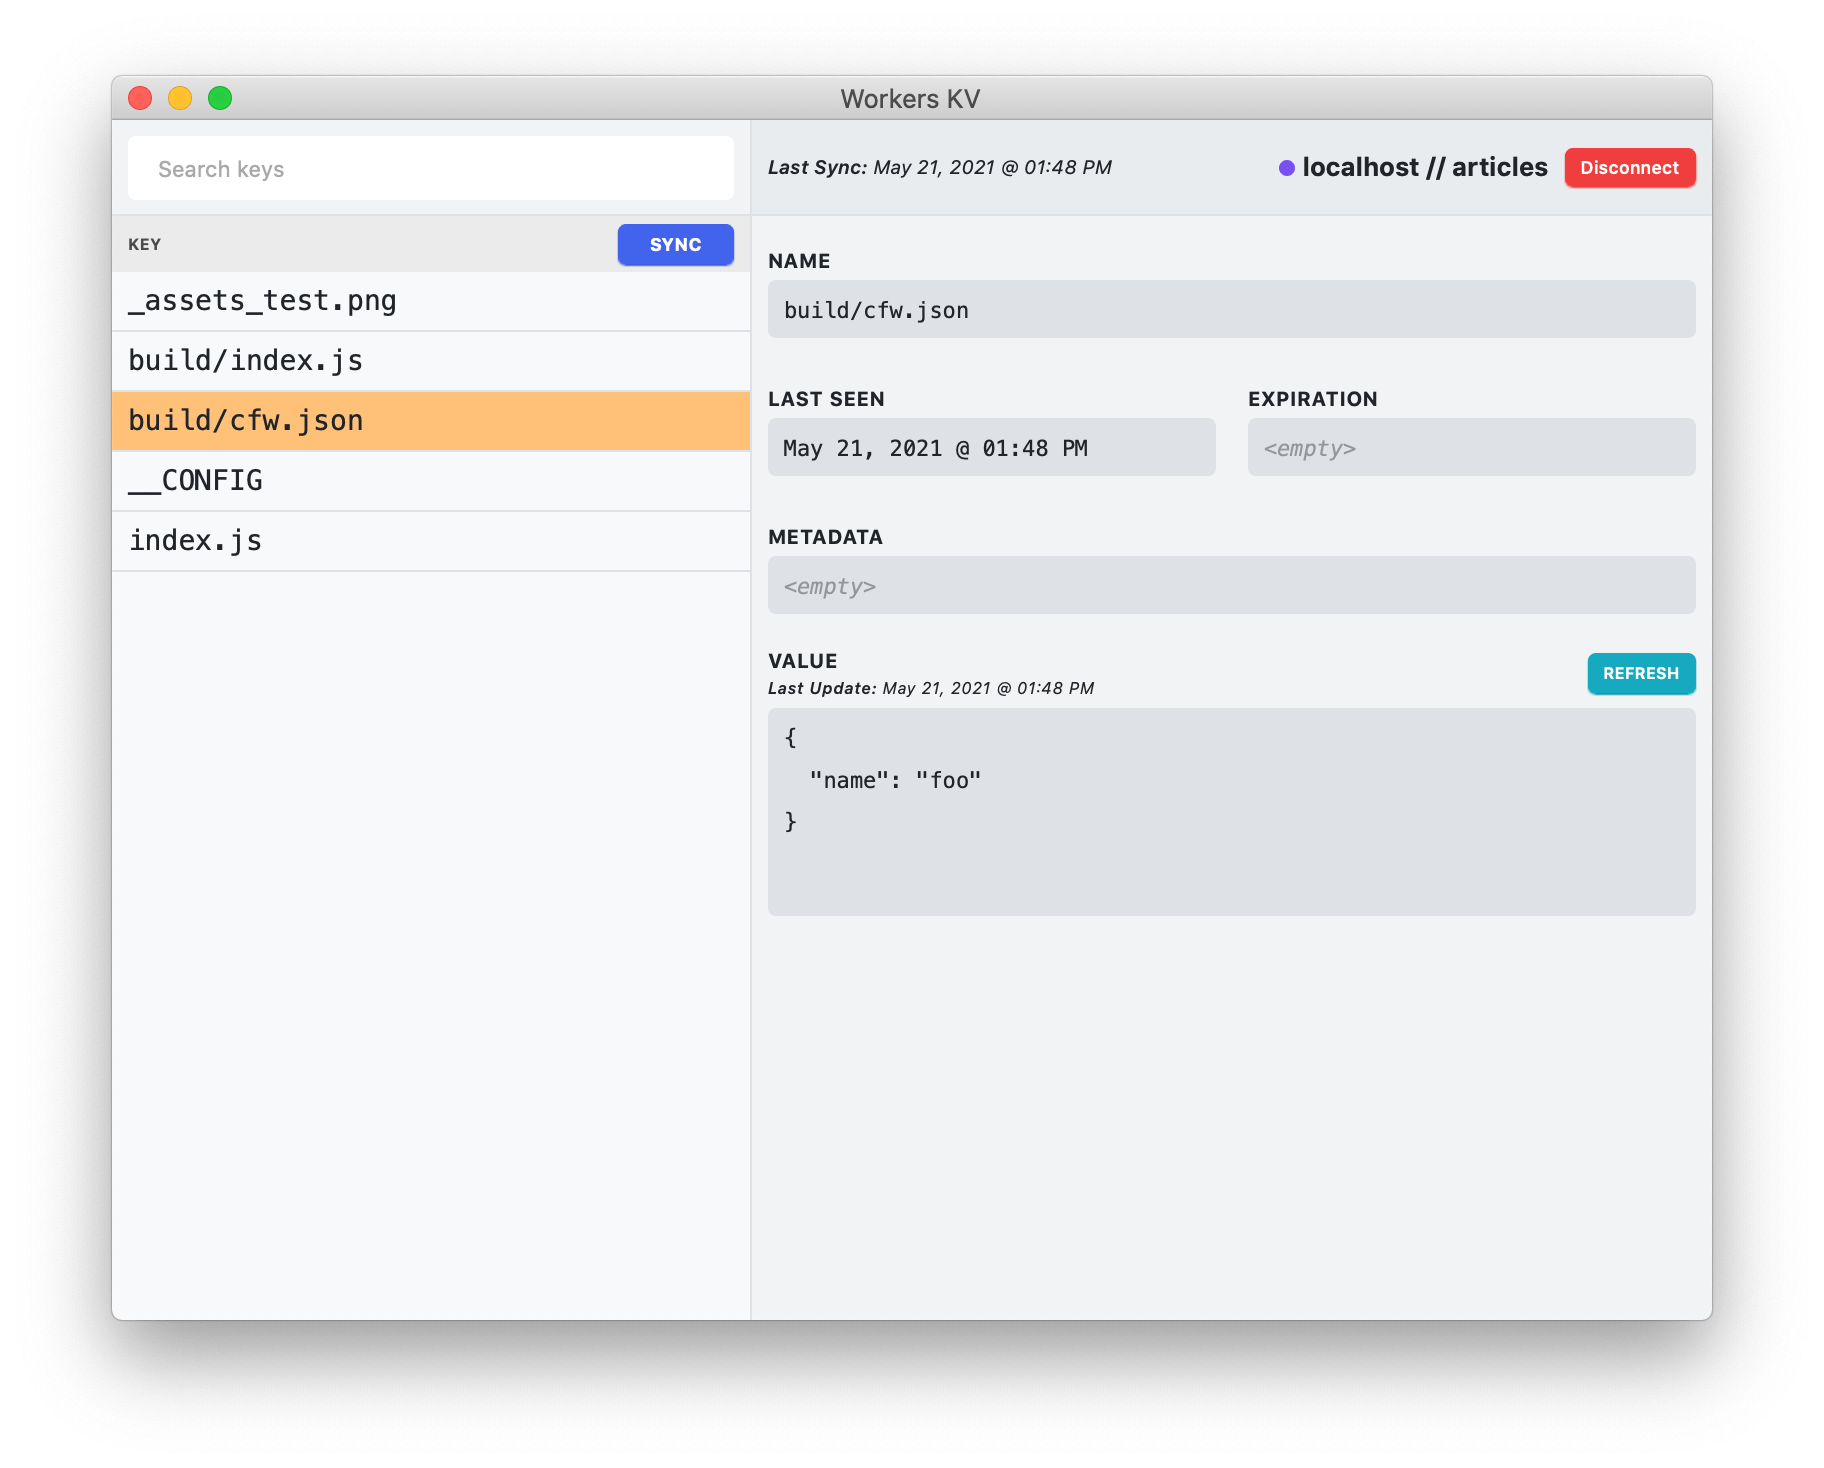
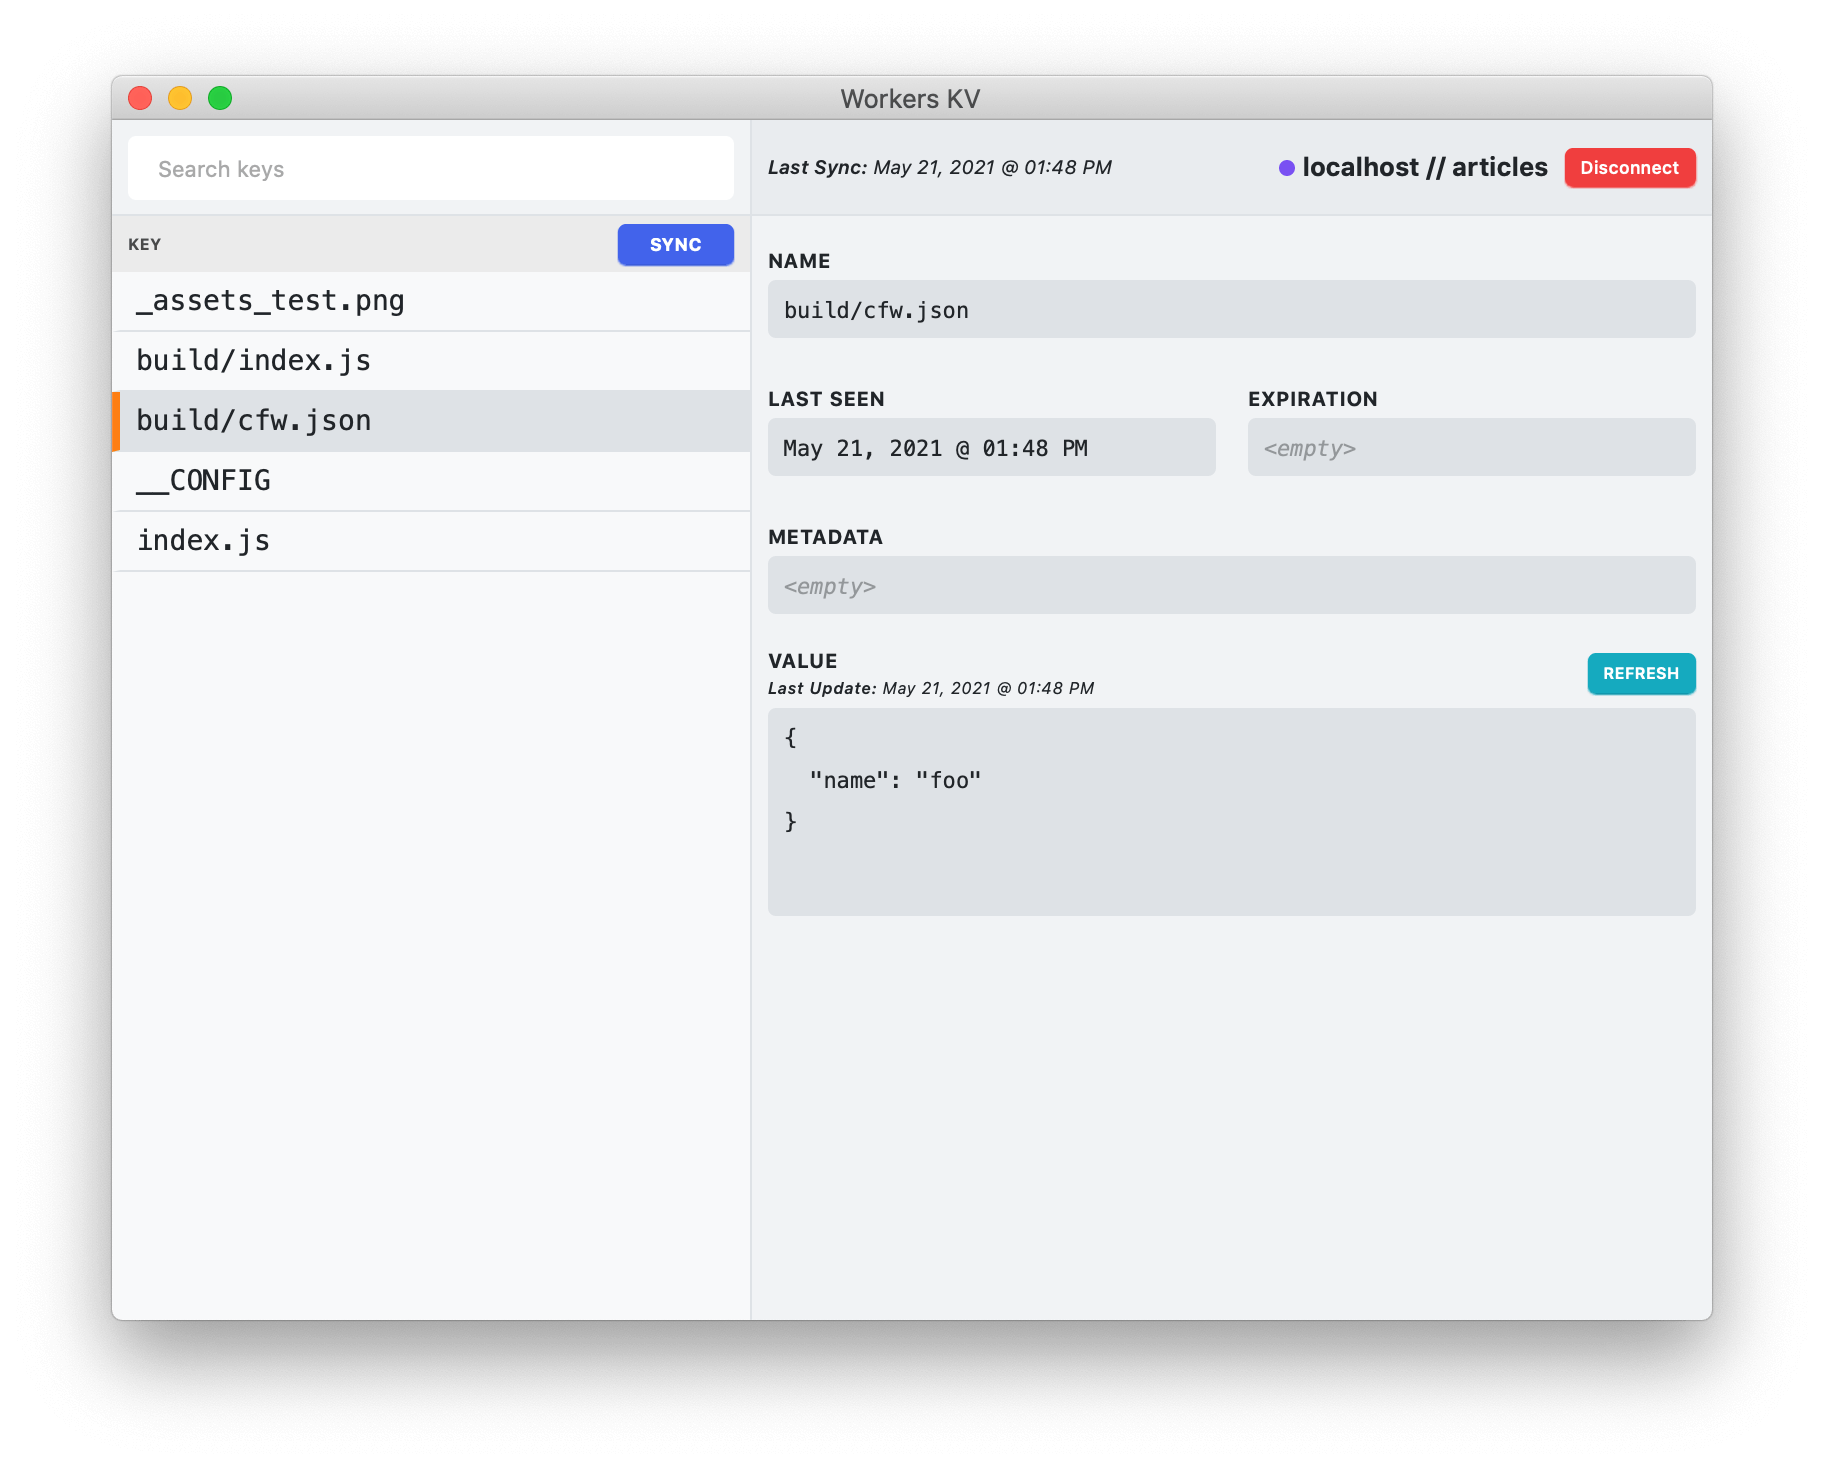
chore: change selected-key styles

Changed region(s): [[0.0625, 0.1839, 0.4375, 0.3372], [0.0938, 0.3678, 0.1562, 0.3985]]

diff --git a/src/routes/viewer.svelte b/src/routes/viewer.svelte
@@ -300,11 +300,12 @@
 
 	.keyitem {
 		font-family: menlo, inconsolata, monospace;
+		border-left: 4px solid transparent;
 		border-bottom: var(--border);
 	}
 
 	.keyitem.selected {
-		--bgc: #ffc078;
+		border-left-color: #fd7e14;
 	}
 
 	.keynav {

diff --git a/src/index.css b/src/index.css
@@ -88,7 +88,7 @@ header {
 
 .navitem.selected,
 .navitem.active {
-	--bgc: #ffc078;
+	--bgc: #dee2e6;
 }
 
 button {
